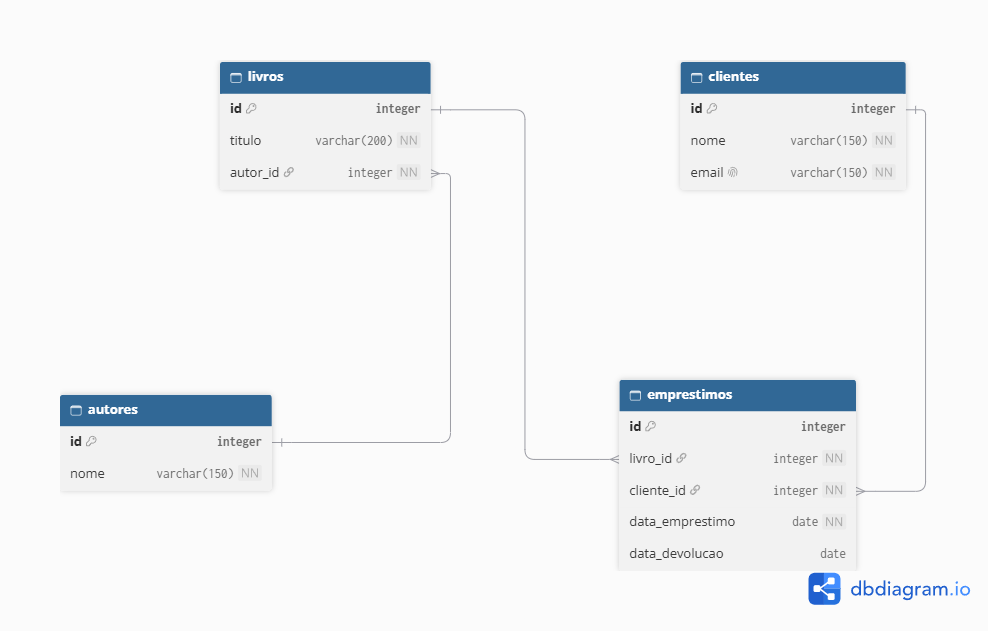
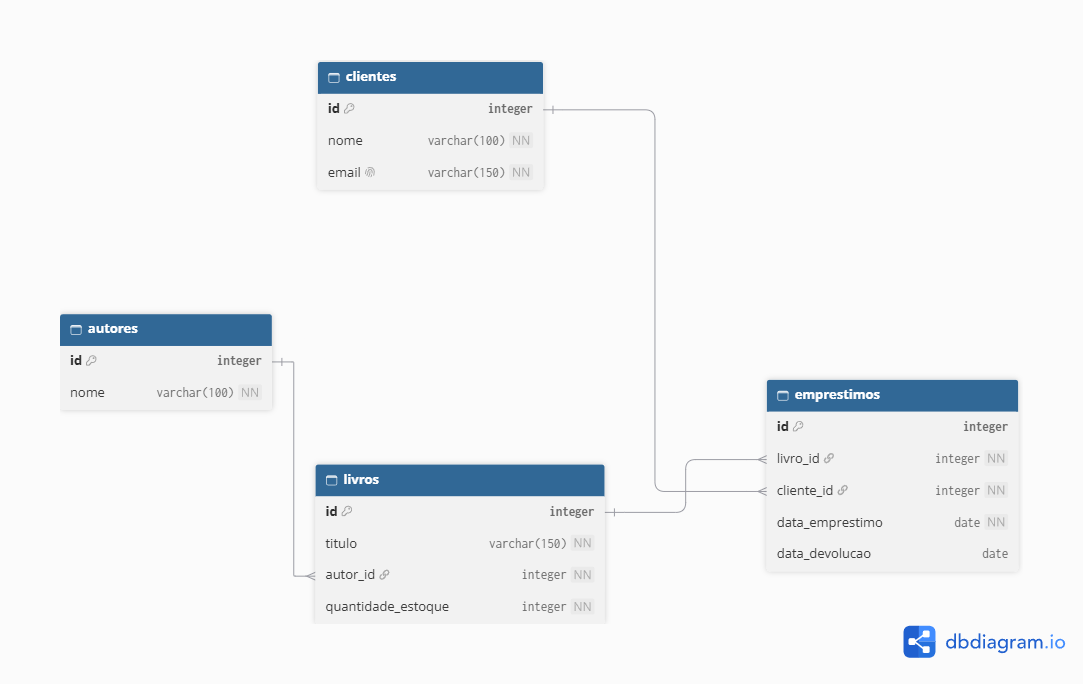
feat: implementar entidade autor

diff --git a/src/menus/MenuAutores.ts b/src/menus/MenuAutores.ts
@@ -1,0 +1,86 @@
+import * as readline from "readline/promises";
+import { AutorController } from "../controllers/AutorController";
+
+export class MenuAutores {
+    constructor(
+        private rl: readline.Interface,
+        private autorController: AutorController
+    ) {}
+
+    public async exibir(): Promise<void> {
+        let opcao: string = "";
+
+        while (opcao !== "0") {
+            console.log("\n===== Gerenciar Autores =====");
+            console.log("1. Cadastrar autor");
+            console.log("2. Listar autores");
+            console.log("3. Consultar autor por ID");
+            console.log("4. Atualizar autor");
+            console.log("5. Remover autor");
+            console.log("0. Voltar ao menu principal");
+
+            opcao = await this.rl.question("Escolha uma opcao: ");
+
+            switch (opcao) {
+                case "1": {
+                    const nome = await this.rl.question("Nome do autor: ");
+                    await this.autorController.cadastrar(nome);
+                    break;
+                }
+
+                case "2": {
+                    await this.autorController.listar();
+                    break;
+                }
+
+                case "3": {
+                    const idTexto = await this.rl.question("ID do autor: ");
+                    const id = Number(idTexto);
+
+                    if (!Number.isInteger(id) || id <= 0) {
+                        console.log("ID invalido. Digite um numero inteiro positivo.");
+                        break;
+                    }
+
+                    await this.autorController.consultarPorId(id);
+                    break;
+                }
+
+                case "4": {
+                    const idTexto = await this.rl.question("ID do autor: ");
+                    const id = Number(idTexto);
+
+                    if (!Number.isInteger(id) || id <= 0) {
+                        console.log("ID invalido. Digite um numero inteiro positivo.");
+                        break;
+                    }
+
+                    const nome = await this.rl.question("Novo nome do autor: ");
+                    await this.autorController.atualizar(id, nome);
+                    break;
+                }
+
+                case "5": {
+                    const idTexto = await this.rl.question("ID do autor: ");
+                    const id = Number(idTexto);
+
+                    if (!Number.isInteger(id) || id <= 0) {
+                        console.log("ID invalido. Digite um numero inteiro positivo.");
+                        break;
+                    }
+
+                    await this.autorController.remover(id);
+                    break;
+                }
+
+                case "0":
+                    console.log("Voltando ao menu principal...");
+                    break;
+
+                default:
+                    console.log("Opcao invalida. Tente novamente.");
+            }
+        }
+
+    }
+}

diff --git a/src/controllers/AutorController.ts b/src/controllers/AutorController.ts
@@ -1,0 +1,78 @@
+
+import { AutorService } from "../services/AutorService";
+
+export class AutorController {
+    constructor(
+        private autorService: AutorService
+    ) {}
+
+    public async listar(): Promise<void> {
+        try {
+            const autores = await this.autorService.listar();
+
+            if (autores.length === 0) {
+                console.log("Nenhum autor cadastrado.");
+                return;
+            }
+
+            console.log("\n===== Lista de Autores =====");
+
+            for (const autor of autores) {
+                console.log(`ID: ${autor.id} | Nome: ${autor.nome}`);
+            }
+        } catch (erro: unknown) {
+            this.exibirErro(erro);
+        }
+    }
+
+    public async consultarPorId(id: number): Promise<void> {
+        try {
+            const autor = await this.autorService.buscarPorId(id);
+
+            console.log("\n===== Autor Encontrado =====");
+            console.log(`ID: ${autor.id}`);
+            console.log(`Nome: ${autor.nome}`);
+        } catch (erro: unknown) {
+            this.exibirErro(erro);
+        }
+    }
+
+    public async cadastrar(nome: string): Promise<void> {
+        try {
+            const autor = await this.autorService.cadastrar(nome);
+
+            console.log(`Autor "${autor.nome}" cadastrado com sucesso.`);
+            console.log(`ID do autor: ${autor.id}`);
+        } catch (erro: unknown) {
+            this.exibirErro(erro);
+        }
+    }
+
+    public async atualizar(id: number, nome: string): Promise<void> {
+        try {
+            const autor = await this.autorService.atualizar(id, nome);
+
+            console.log(`Autor atualizado com sucesso: ${autor.nome}`);
+        } catch (erro: unknown) {
+            this.exibirErro(erro);
+        }
+    }
+
+    public async remover(id: number): Promise<void> {
+        try {
+            await this.autorService.remover(id);
+
+            console.log(`Autor com ID ${id} removido com sucesso.`);
+        } catch (erro: unknown) {
+            this.exibirErro(erro);
+        }
+    }
+
+    private exibirErro(erro: unknown): void {
+        if (erro instanceof Error) {
+            console.error(`Erro: ${erro.message}`);
+        } else {
+            console.error("Ocorreu um erro inesperado.");
+        }
+    }
+}

diff --git a/src/menus/MenuPrincipal.ts b/src/menus/MenuPrincipal.ts
@@ -1,12 +1,21 @@
-
 import * as readline from "readline/promises";
 import { stdin as input, stdout as output } from "process";
+
+import { AutorRepository } from "../repositories/AutorRepository";
+import { AutorService } from "../services/AutorService";
+import { AutorController } from "../controllers/AutorController";
+import { MenuAutores } from "./MenuAutores";
 
 export class MenuPrincipal {
     private rl = readline.createInterface({
         input: input,
         output: output
     });
+
+    private autorRepository = new AutorRepository();
+    private autorService = new AutorService(this.autorRepository);
+    private autorController = new AutorController(this.autorService);
+    private menuAutores = new MenuAutores(this.rl, this.autorController);
 
     public async exibir(): Promise<void> {
         let opcao: string = "";
@@ -23,20 +32,25 @@ export class MenuPrincipal {
 
             switch (opcao) {
                 case "1":
-                    console.log("Menu de autores sera implementado.");
+                    await this.menuAutores.exibir();
                     break;
+
                 case "2":
                     console.log("Menu de livros sera implementado.");
                     break;
+
                 case "3":
                     console.log("Menu de clientes sera implementado.");
                     break;
+
                 case "4":
                     console.log("Menu de emprestimos sera implementado.");
                     break;
+
                 case "0":
                     console.log("Encerrando o sistema...");
                     break;
+
                 default:
                     console.log("Opcao invalida. Tente novamente.");
             }

diff --git a/src/services/AutorService.ts b/src/services/AutorService.ts
@@ -1,0 +1,53 @@
+
+import { Autor } from "../models/Autor";
+import { AutorRepository } from "../repositories/AutorRepository";
+
+export class AutorService {
+    constructor(
+        private autorRepository: AutorRepository
+    ) {}
+
+    public async listar(): Promise<Autor[]> {
+        return await this.autorRepository.listar();
+    }
+
+    public async buscarPorId(id: number): Promise<Autor> {
+        const autor = await this.autorRepository.buscarPorId(id);
+
+        if (autor === undefined) {
+            throw new Error("Autor não encontrado.");
+        }
+
+        return autor;
+    }
+
+    public async cadastrar(nome: string): Promise<Autor> {
+        if (nome.trim() === "") {
+            throw new Error("O nome do autor é obrigatório.");
+        }
+
+        return await this.autorRepository.cadastrar(nome.trim());
+    }
+
+    public async atualizar(id: number, nome: string): Promise<Autor> {
+        if (nome.trim() === "") {
+            throw new Error("O nome do autor é obrigatório.");
+        }
+
+        const autor = await this.autorRepository.atualizar(id, nome.trim());
+
+        if (autor === undefined) {
+            throw new Error("Autor não encontrado.");
+        }
+
+        return autor;
+    }
+
+    public async remover(id: number): Promise<void> {
+        const removido = await this.autorRepository.remover(id);
+
+        if (!removido) {
+            throw new Error("Autor não encontrado.");
+        }
+    }
+}

diff --git a/src/repositories/AutorRepository.ts b/src/repositories/AutorRepository.ts
@@ -1,0 +1,48 @@
+import { Autor } from "../models/Autor";
+
+export class AutorRepository {
+    private autores: Autor[] = [];
+    private proximoId: number = 1;
+
+    public async listar(): Promise<Autor[]> {
+        return this.autores;
+    }
+
+    public async buscarPorId(id: number): Promise<Autor | undefined> {
+        return this.autores.find(autor => autor.id === id);
+    }
+
+    public async cadastrar(nome: string): Promise<Autor> {
+        const autor = new Autor(this.proximoId, nome);
+
+        this.autores.push(autor);
+        this.proximoId++;
+
+        return autor;
+    }
+    
+public async atualizar(id: number, nome: string): Promise<Autor | undefined> {
+    const autor = this.autores.find(autor => autor.id === id);
+
+    if (autor === undefined) {
+        return undefined;
+    }
+
+    autor.nome = nome;
+
+    return autor;
+}
+
+public async remover(id: number): Promise<boolean> {
+    const indice = this.autores.findIndex(autor => autor.id === id);
+
+    if (indice === -1) {
+        return false;
+    }
+
+    this.autores.splice(indice, 1);
+
+    return true;
+}
+
+}

diff --git a/src/models/Autor.ts b/src/models/Autor.ts
@@ -1,0 +1,12 @@
+export class Autor {
+    public id: number;
+    public nome: string;
+
+    constructor(
+        id: number,
+        nome: string
+    ) {
+        this.id = id;
+        this.nome = nome;
+    }
+}
